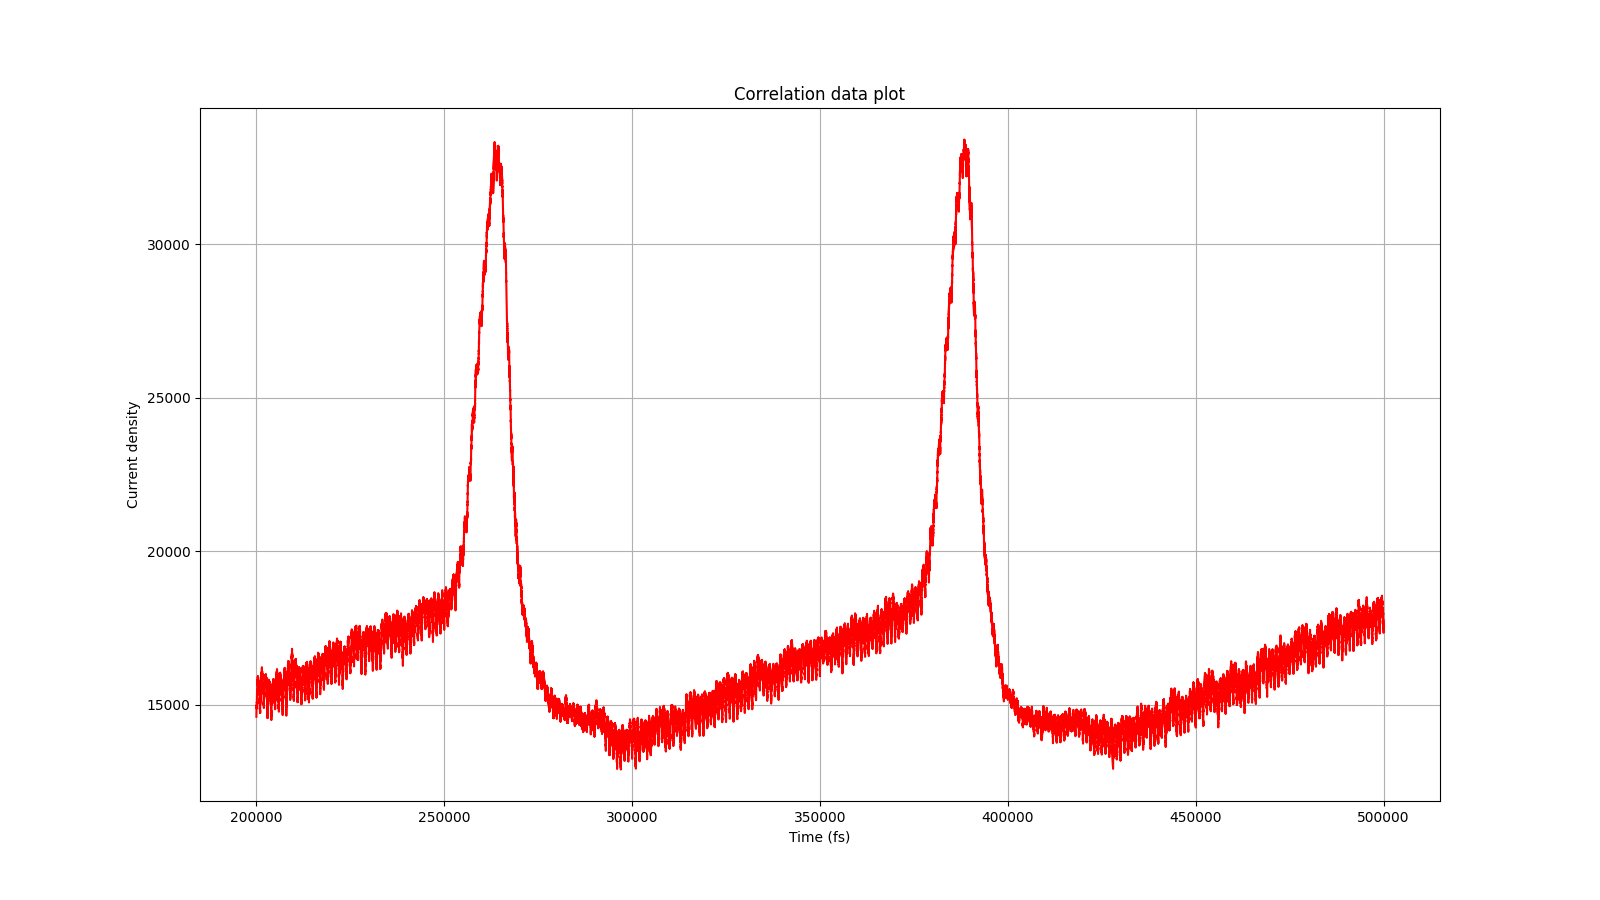
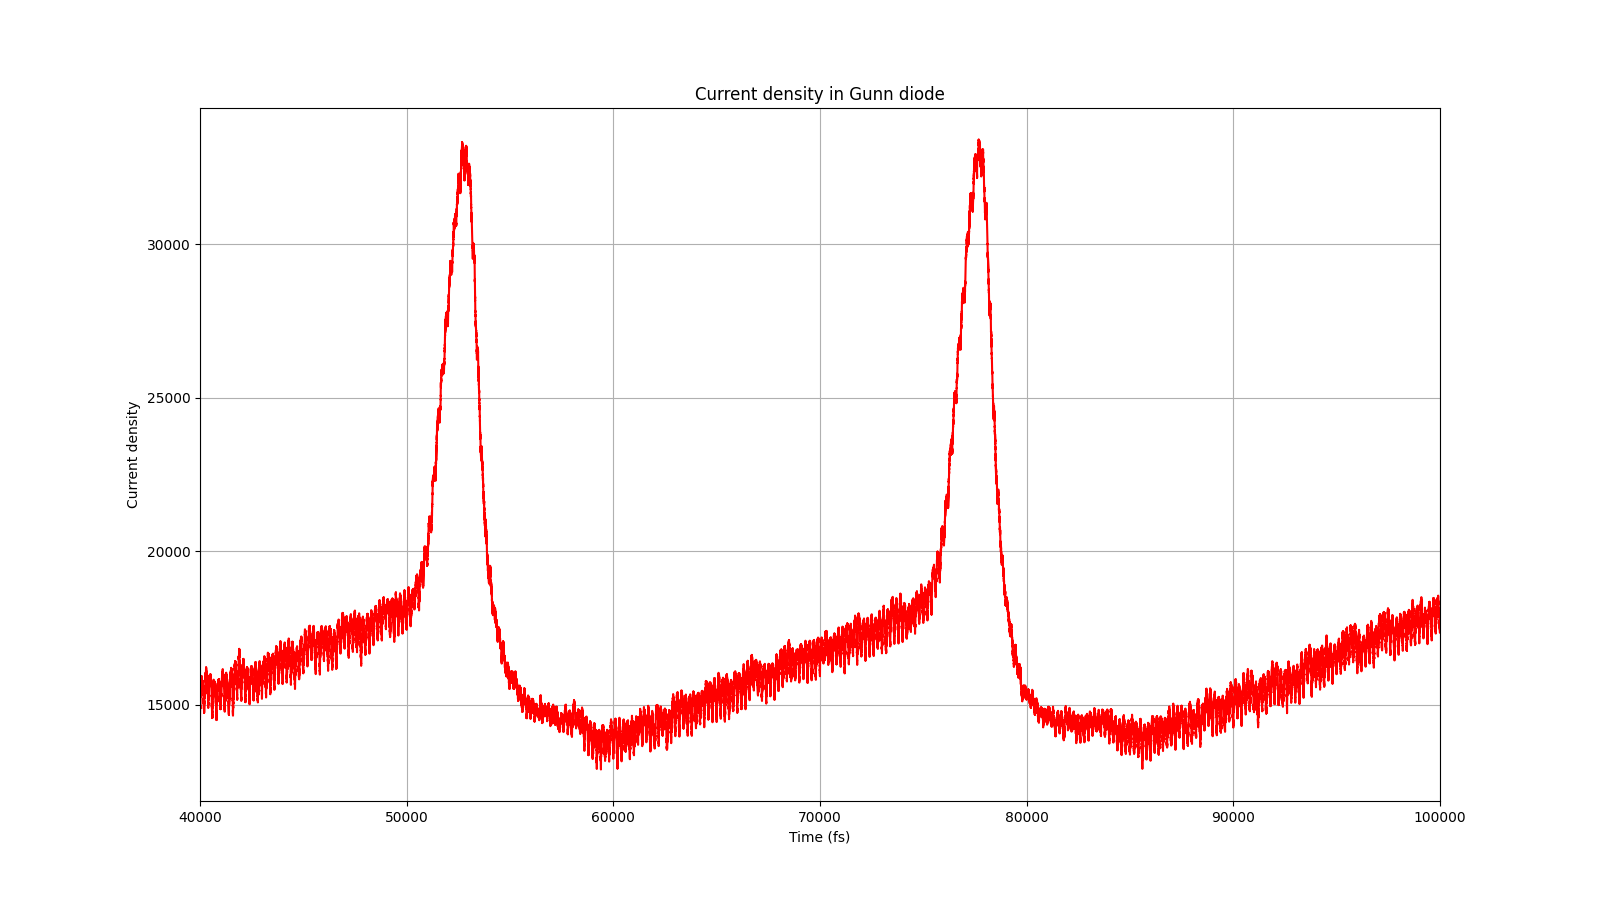
Fourier transform implemented. Minor clarity upgrades.

diff --git a/analysis/single-file/single-data.py b/analysis/single-file/single-data.py
@@ -1,36 +1,84 @@
 # -*- coding: utf8 -*-
 
-import os  # for file management
+import os # for file management
 import numpy as np # linear algebra
 import pandas as pd # data processing, CSV file I/O (e.g. pd.read_csv)
-import scipy as sp # scientific computing (used for fourier transform)
+from scipy.fft import fft,fftfreq # scientific computing (used for fourier transform)
 import matplotlib.pyplot as plt # for plotting
 
-# absolute current file path
-# os.chdir(r'C:\Users\sergi\repositorios\gunn-diode-deeplearning-tfg\analysis\single-file')
+print("\nSINGLE DATA FILE ANALYSIS\n")
+print("CURRENT DENSITY OSCILLATIONS IN GUNN DIODE\n")
+print("------------------------------------------\n")
+print("Reading and processing data file...\n")
 
 # relative current file path setting
 script_dir = os.path.dirname(os.path.realpath(__file__))
 os.chdir(script_dir)
 
 # read the data file
-# datafile = pd.read_fwf("corr01.txt",colspecs=[(0,12),(13,25),(26,38),(39,51),(52,64),(65,77)],names=['Time','V1','V2','V3','V4','V5']);
+# datafile = pd.read_fwf("corr01.txt",colspecs=[(0,12),(13,25),(26,38),(39,51),(52,64),(65,77)],names=['V0','V1','V2','V3','V4','V5'])
+
 # this read only gets the 4th column as it seems all other a irrelevant or redundant
-datafile = pd.read_fwf("corr01.txt",colspecs=[(39,51)],names=['correlation']);
+datafile = pd.read_fwf('corr01.txt',colspecs=[(39,51)],names=['Current']) # read the data file
 
-# print("\n", datafile.head(10))  # print the first 10 rows
-# print("\n", datafile.iloc[200000:200100])   # print rows from a to b with iloc[a:b]
+valid_data = datafile.loc[datafile.index >= 200000].copy() # ignore thermalization data
 
-valid_data = datafile.loc[datafile.index >= 200000] # ignore thermalization data
+# transform row index to time in fs
+valid_data['Time'] = valid_data.index * 0.2 # 0.2 fs per row
+valid_data = valid_data[['Time', 'Current']]  # keep only the Time and Current columns, and exchange order
 
+print("File processed successfully. Showing some statistics and some rows:\n")
+
+print("\n", valid_data.describe())  # print some statistics
+print("\n", valid_data.head(5))  # print the first 5 rows
+print("\n", valid_data.tail(5))  # print the last 5 rows
+
+print("\nPlotting the data...\n")
+
+# plot the datafile
 first_plot = valid_data.plot(
-    title="Correlation data plot",
-    xlabel="Time (fs)",
-    ylabel="Current density",
+    x='Time',
+    y='Current',
+    title='Current density in Gunn diode',
+    xlabel='Time (fs)',
+    ylabel='Current density',
     figsize=(16,9),
-    style='r-',  # red color, circle markers, solid line
+    style='r-',  # red color, solid line
     grid=True,
-    legend=False
+    legend=False,
+    xlim=([40e3,100e3])  # limit x axis
 )
+plt.savefig('plot.png')
 
-plt.savefig("plot.png")
+print("Plot saved as plot.png\n")
+
+# FOURIER TRANSFORM
+
+print("\nPerforming Fourier transform...\n")
+N=len(valid_data) # number of data points
+dt=0.2 # 0.2 fs time step
+print("\nNumber of data points: ", N)
+print("Time step: ", dt)
+
+currents_array=valid_data['Current'].to_numpy() # convert the current density to a numpy array, as a dataframe column is not a valid input for the fft function
+
+fft_amplitude =fft(currents_array) # fourier transform of the current density
+fft_freq = fftfreq(N, dt) # fourier frequencies
+# [:N//2] is used to keep only the positive frequencies, as the fft function returns the negative frequencies after the positive ones
+
+fourier = pd.DataFrame({'Frequency':fft_freq, 'Amplitude':np.abs(fft_amplitude)}) # type: ignore # create a dataframe with the fourier data
+print("\n", fourier.head(10))  # print the first 10 rows
+
+fourier_plot=fourier.plot(
+    x='Frequency',
+    y='Amplitude',
+    title='Fourier transform of current density in Gunn diode',
+    xlabel='Frequency (PHz)',
+    ylabel='Amplitude',
+    figsize=(16,9),
+    style='b-',  # blue color, solid line
+    grid=True,
+    legend=False,
+    xlim=([-1e-3,1e-3])  # limit x axis
+)
+plt.savefig('fourier.png')
